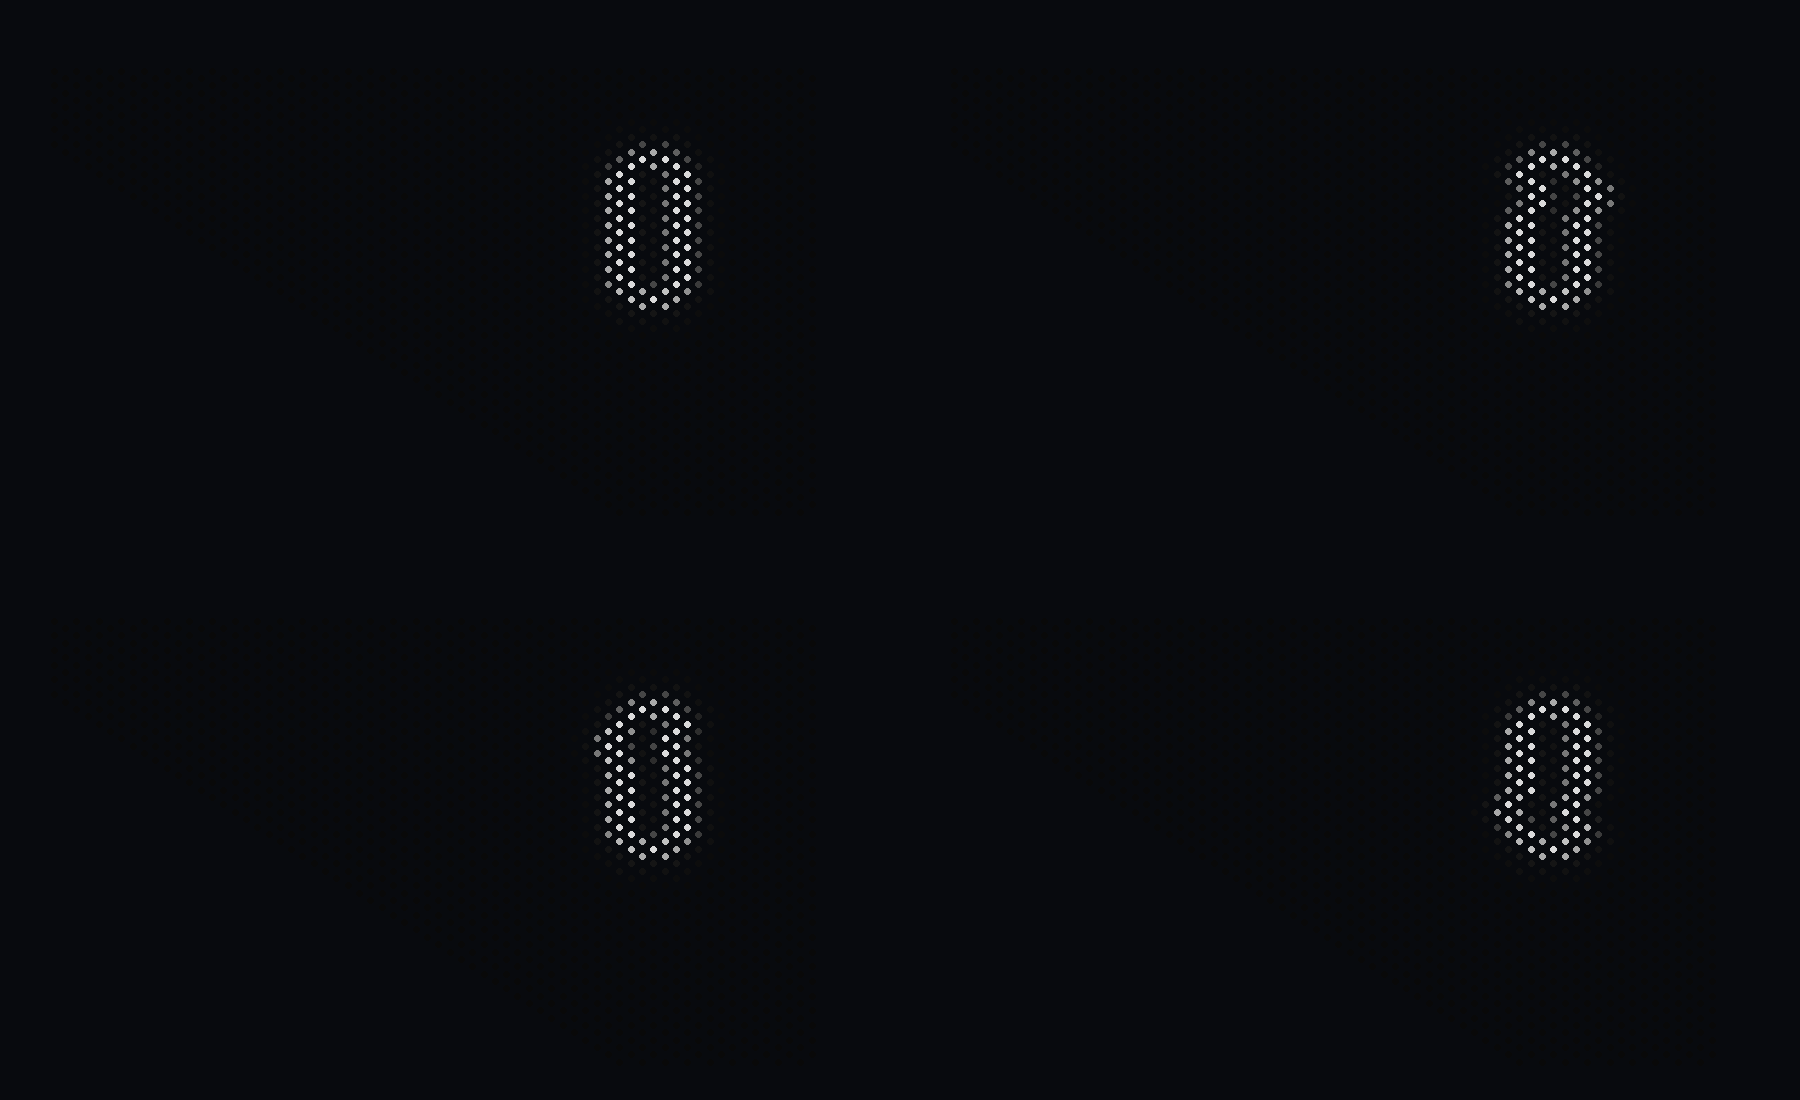
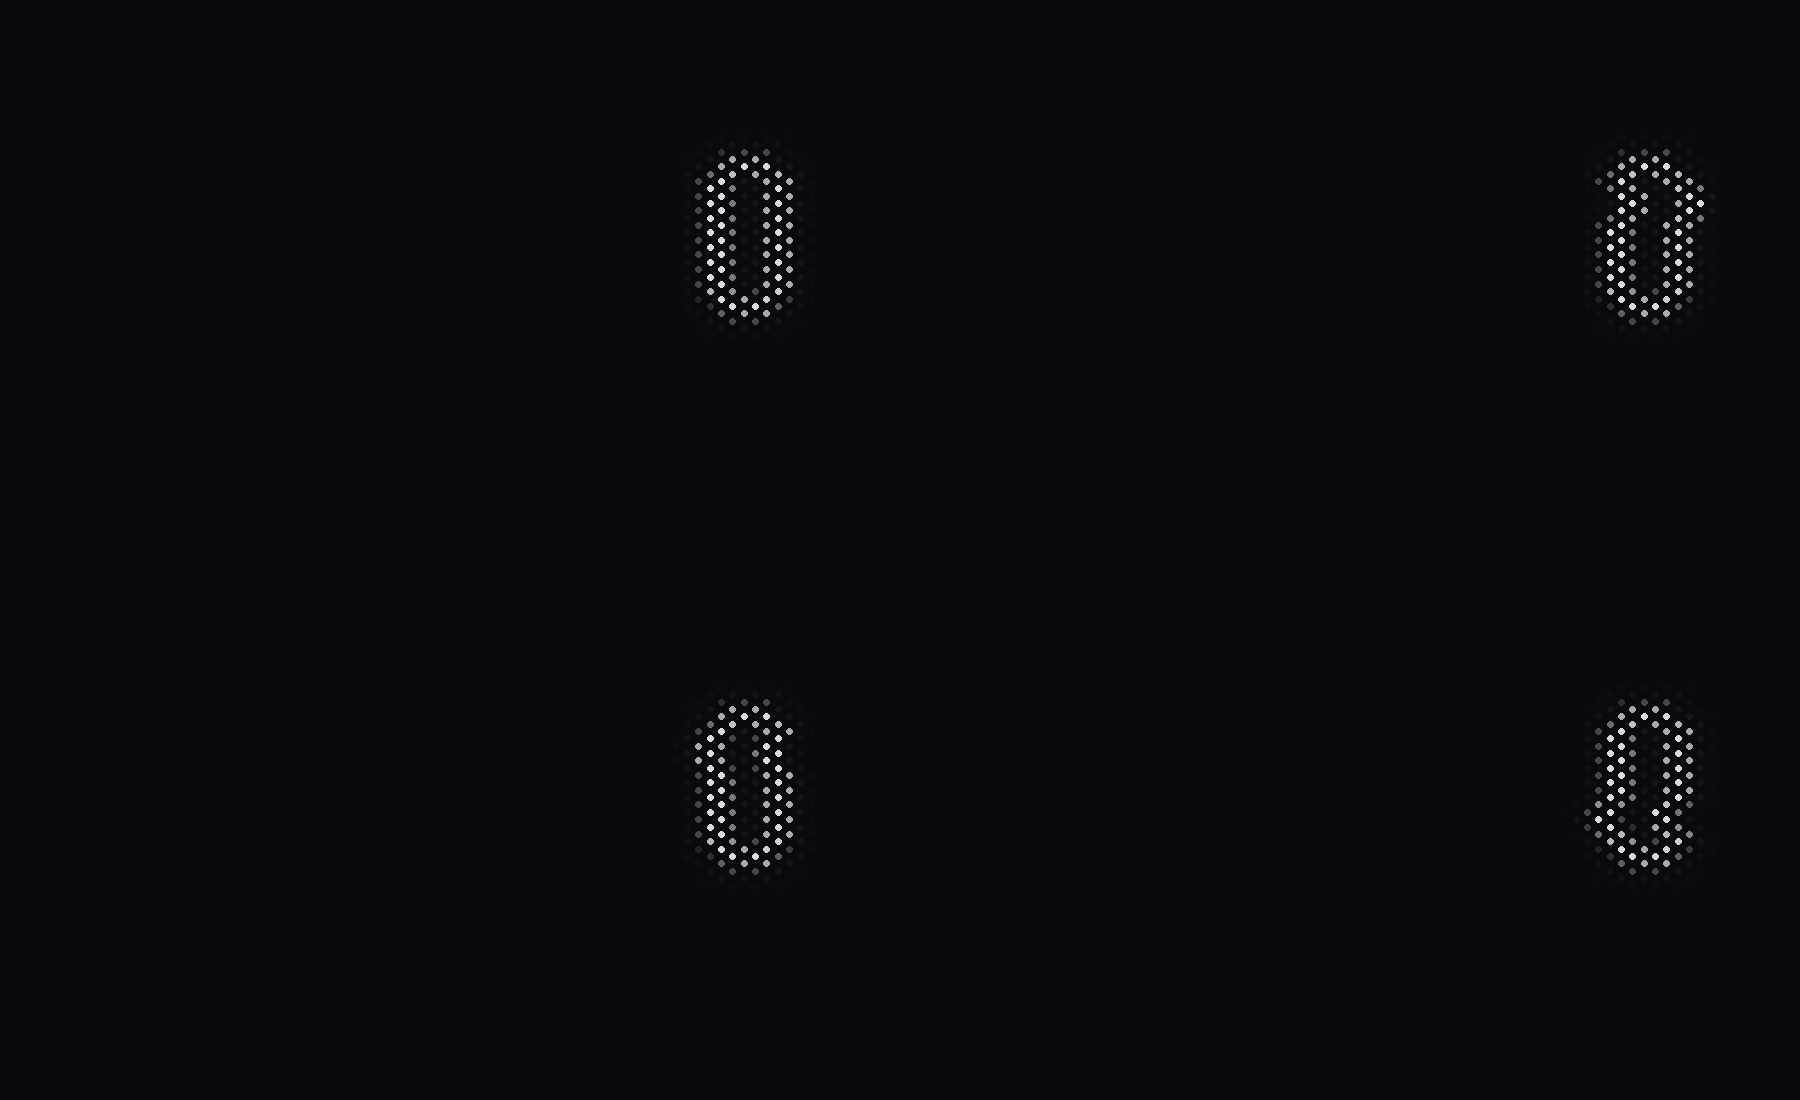
Move Omarchy badge closer to the upper-right corner

diff --git a/artwork/omarchy-badge/generate.py b/artwork/omarchy-badge/generate.py
@@ -14,7 +14,7 @@ PHYSICAL = np.array([((x-y)/math.sqrt(2),(x+y)/math.sqrt(2)*.65) for x,y in LEDS
 SAMPLES = PHYSICAL[:,None,:] + np.array([[-.14,-.14],[-.14,.14],[.14,-.14],[.14,.14]])
 # Exact stepped O silhouette from /usr/share/omarchy/logo.svg.
 # Deliberate upper-right badge placement with generous dark space around it.
-CENTER = np.array([14.0,25.0])
+CENTER = np.array([20.0,25.5])
 SCALE = 10 / 240
 OUTER = np.array([(105,30),(120,30),(120,45),(135,45),(135,225),
  (120,225),(120,240),(105,240),(105,255),(30,255),(30,240),

diff --git a/artwork/omarchy-badge/README.md b/artwork/omarchy-badge/README.md
@@ -1,10 +1,10 @@
 # Omarchy / Glitch Badge
 
-A smaller O placed deliberately in the upper-right part of the GA402 panel rather than aligned to the LED or laptop centre. Anchor (14,25), height10 in physical LED coordinates; original wordmark proportions remain intact. The letter has4.83 units of boundary clearance.
+A smaller O placed deliberately in the upper-right part of the GA402 panel rather than aligned to the LED or laptop centre. Anchor (20,25.5), height 10 in physical LED coordinates; original wordmark proportions remain intact. The letter has 1.23 units of boundary clearance.
 
-Steady faint halo, two short row glitches in a40-second loop. Each shift is under one physical unit and affects only a narrow band. The first and last encoded frames are identical. The centred versions remain separate profiles.
+Steady faint halo, two short row glitches in a 40-second loop. Each shift is under one physical unit and affects only a narrow band. The first and last encoded frames are identical. The centred versions remain separate profiles.
 
-`omarchy.gif` is the74×39 panel asset; `preview.gif` shows the physical dot layout. `preview.png` and `motion-review.png` show glitch phases. `omarchy.png` and `drawing.svg` provide the static base.
+`omarchy.gif` is the 74 × 39 panel asset; `preview.gif` shows the physical dot layout. `preview.png` and `motion-review.png` show glitch phases. `omarchy.png` and `drawing.svg` provide the static base.
 
 Generate: `uv run --with numpy --with pillow python artwork/omarchy-badge/generate.py`.
 
